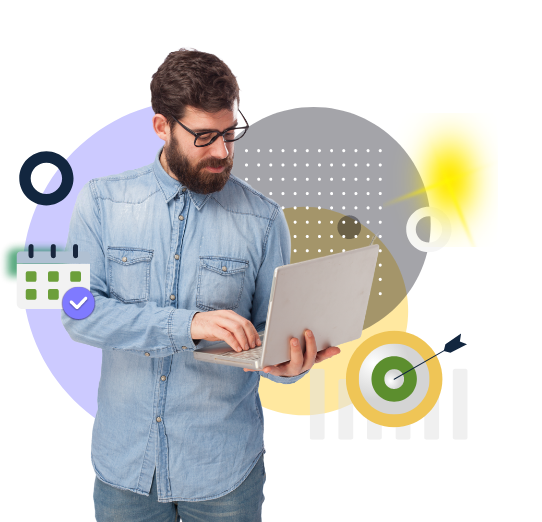
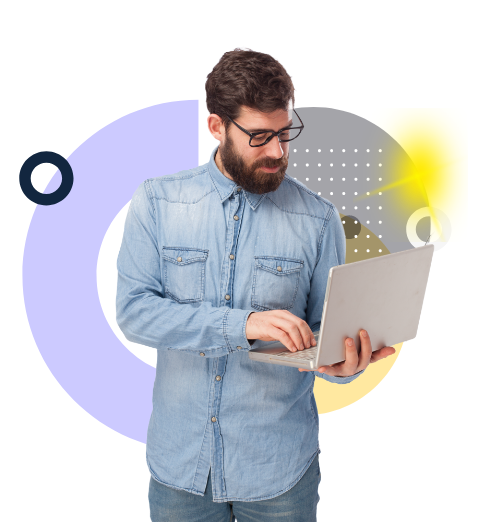
ajustes

diff --git a/src/styles/_variables.sass b/src/styles/_variables.sass
@@ -184,7 +184,7 @@ $bp-max-xs: 576px
 .actividad
   background-color: #F2F2F2  
 // Imágen banner principal -----------------------------
-$banner-principal-img-y: '' // 'arriba','abajo',''
+$banner-principal-img-y: 'abajo' // 'arriba','abajo',''
 $banner-principal-img-x: '' // 'derecha',''
 
 // .tarjeta-avatar -----------------------------------

diff --git a/src/styles/_custom.sass b/src/styles/_custom.sass
@@ -2,8 +2,8 @@
   &-1
     animation: float1 3.5s ease-in-out infinite alternate
     position: absolute
-    top: 20%
-    right: 10%
+    top: 4%
+    right: -21%
   &-2
     animation: float1 2.8s ease-in-out infinite alternate
     position: absolute
